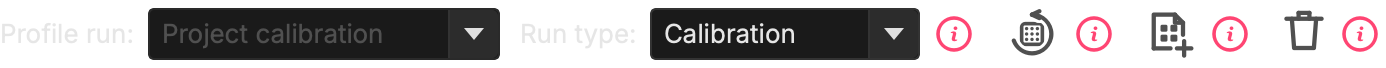
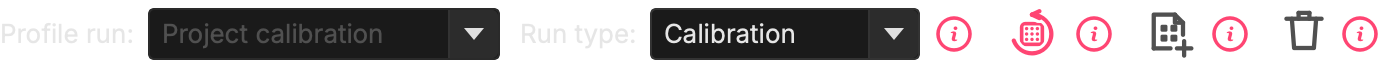
Calibration design: decisions 3, 4, 5, 7 and 8 answered (#137)
Basti, 2026-08-05: 'regarding open questions to this issue: 3,4,5,7,8 -> i
follow your recommendations'. Every question in this design is now answered;
it waits on a green light to build, not on an answer.

Decision 3 has a knock-on the write-up had assumed the other way: Restore
Used Chart is IN the first version, so the calibration chart is snapshotted
like any other -- which is also what fixes D3, the one chart whose loss is
unrecoverable today. Edge case E9 reverses, the drafted button tooltip is
replaced with wording for the case that actually matters (a project that has
not measured its calibration yet), and mockup 02 is re-rendered with Restore
live while Duplicate and Delete stay greyed.

Changed region(s): [[0.7136, 0.1471, 0.7756, 0.8235]]

diff --git a/scripts/mockup_calibration_run_type.py b/scripts/mockup_calibration_run_type.py
@@ -140,11 +140,18 @@ def bar_as_calibration(win) -> None:
                       "moves the old one to “cal/old”.")):
         btn.setEnabled(False)
         btn.setToolTip(why)
-    bar._restore_btn.setEnabled(False)
+    # RESTORE STAYS AVAILABLE. Sebastian, 2026-08-05, answering decision 3:
+    # Restore Used Chart is in the first version, so the calibration chart is
+    # snapshotted like any other — which also fixes D3, the one chart whose
+    # loss is unrecoverable today. Enabled, with the wording for the case that
+    # matters: a project that has not measured its calibration yet.
+    bar._restore_btn.setEnabled(True)
     bar._restore_btn.setToolTip(
-        "A calibration chart keeps no stored copy yet, so there is nothing to "
-        "put back. Switch “Run type” to “Profiling” or “Verification” to use "
-        "this.")
+        "Put back the calibration chart this project's calibration was "
+        "measured with, exactly as it was printed — the pages, the patch "
+        "layout and the .ti2 behind them. Use it when you want to reprint the "
+        "sheet or read it again. Available once a calibration has been "
+        "measured.")
 
 
 def bar_as_profiling(win) -> None:

diff --git a/docs/design/calibration_run_type.md b/docs/design/calibration_run_type.md
@@ -563,7 +563,7 @@ Project `~/ChromIQ/My-Printer/`.
 | E6 | Measuring a calibration chart when `cal/` holds a complete `.ti3` | The §5 "starting over" rules apply unchanged — the same messages, against the calibration measurement. |
 | E7 | A corrupt or empty calibration `.ti3` | Same as a run's: `M-CHART-CORRUPT` (already in the catalogue, pending approval). |
 | E8 | Duplicate / Delete pressed with a Calibration target | Both are about runs. They grey out with a sentence saying which Run type they need — the pattern `duplicate_state` already uses (`ui/measurement_target_bar.py:427-440`). |
-| E9 | Restore Used Chart with a Calibration target | Out of scope for the first version: no chart snapshot is kept for `cal/`. The button greys with a reason. Adding snapshots later is a small, separate step. |
+| E9 | Restore Used Chart with a Calibration target | **In the first version** (decision 3, answered 2026-08-05). The calibration chart is snapshotted at the same moment as any other — when its measurement starts — which also **fixes D3**, the one chart whose loss is unrecoverable today. Before a calibration has been measured there is nothing stored yet, so the button greys with that reason and no other. |
 | E10 | printcal Re-calibrate / Verify with no previous `.cal` | Already handled: `no_prev_cal`, `workflow/printcal_runner.py:44-49`. With E5 in place, the previous `.cal` is in `cal/old/` and can be pointed at. |
 | E11 | The `.cal` is deleted outside ChromIQ while prefilled | The prefill only fills a value; the flag is off unless the user enables it. Enabling with a missing file must say so rather than let printtarg fail. |
 | E12 | Two projects, one calibrated, one not | `_check_for_cal_file` resolves per project root — already correct. |
@@ -629,7 +629,13 @@ new persistence.
 
 ---
 
-## 9. Decisions — answered 2026-08-04, with the reasoning kept
+## 9. Decisions — all answered, with the reasoning kept
+
+1, 2 and 6 were settled on 2026-08-04; **3, 4, 5, 7 and 8 on 2026-08-05**
+(*"regarding open questions to this issue: 3,4,5,7,8 → i follow your
+recommendations"*); 9 on 2026-08-05 as well (§4.2a). **Nothing in this design
+is open any more** — it is waiting on a green light to build, not on an
+answer.
 
 Sebastian answered 1, 2 and 6 outright and asked for a recommendation on the
 rest. Recommendations are marked **R**; they stand unless he says otherwise.
@@ -642,8 +648,8 @@ Two controls for one state is the confusion this feature removes; `cal_target`
 is transient, so nothing needs migrating. Its tooltip — which still promises
 `cal_` filename prefixes that #127 removed — goes with it (§14, item 6).
 
-**3 · Restore Used Chart for a calibration — R: include it, in the first
-version.** The chart snapshot is what makes the button work, and the helper
+**3 · Restore Used Chart for a calibration — include it, in the first
+version.** ✅ *Decided 2026-08-05: "i follow your recommendations".* The chart snapshot is what makes the button work, and the helper
 already exists (`workflow/verify_chart_snapshot.py`); a calibration chart would
 be snapshotted at the same moment as any other — when its measurement starts.
 Two reasons to do it now rather than later: the calibration chart is the one
@@ -651,15 +657,15 @@ chart whose loss is *unrecoverable today* (D3 — it cannot even be reloaded), a
 leaving it out means the button needs an exception to explain, which costs a
 sentence in a tooltip every user reads and buys nothing.
 
-**4 · A project with a `cal/` while the preference is off — R: say it in the
-file guide, and nowhere else.** The interface should not advertise a mode the
+**4 · A project with a `cal/` while the preference is off — say it in the
+file guide, and nowhere else.** ✅ *Decided 2026-08-05.* The interface should not advertise a mode the
 user has switched off; but "where are my files?" must always be answerable, and
 the file guide is exactly where that is asked. With D6 fixed the hidden
 calibration no longer *does* anything, so there is nothing to warn about — only
 something to find.
 
-**5 · Recording which `.cal` a run was built with — R: yes, one `RunMeta`
-field.** It is the only way to answer "was this profile built on the calibration
+**5 · Recording which `.cal` a run was built with — yes, one `RunMeta`
+field.** ✅ *Decided 2026-08-05.* It is the only way to answer "was this profile built on the calibration
 that is in the project now?" once a calibration has been replaced — and with D1
 fixed the older ones live on in `cal/old/<date>/`, so a stored stem stays
 resolvable instead of dangling. Migration is nothing: absent means unknown,
@@ -671,8 +677,9 @@ time, one line in the file guide.
 **6 · D1 ships with the feature, not before it.** ✅ *Decided* — "all together
 when we build it."
 
-**7 · The `.cal` prefill — R: gate it on the preference, fill both fields,
-switch neither on, and say so.** Three parts, one principle: ChromIQ may offer,
+**7 · The `.cal` prefill — gate it on the preference, fill both fields,
+switch neither on, and say so.** ✅ *Decided 2026-08-05. This is the fix for
+D4 and half of D6.* Three parts, one principle: ChromIQ may offer,
 not choose. `-K` reprints every patch value through the calibration and `-I`
 only records it — that is a decision about what lands on paper, and the user is
 the one who knows whether their printer or RIP applies curves itself. Switching
@@ -681,7 +688,7 @@ options are switched off (D6) makes it invisibly. The status line becomes:
 *"Calibration file found: {name} — filled into the -K and -I fields below.
 Switch on the one you want; they cannot both be used at once."*
 
-**8 · Should `-N` follow the device type? — R: surface it, don't decide it.**
+**8 · Should `-N` follow the device type? — surface it, don't decide it.** ✅ *Decided 2026-08-05.*
 Corrected after Sebastian pushed back, and the correction went both ways: my
 "the PostScript path is RGB" was wrong, and "without it the TIFF is useless" is
 not what Argyll does either — every ink is written in both modes, and `-N` only
@@ -784,7 +791,7 @@ Ten places mention calibration. Four need new words, four need a correction they
 
 **5. Restore Used Chart / Duplicate / Delete ⓘ** — each already explains itself per Run type; each gains one line:
 
-> RUN TYPE = CALIBRATION — *(Restore)* a calibration chart keeps no stored copy, so there is nothing to put back. *(Duplicate)* duplicating works on a profile run; switch "Run type" to "Profiling". *(Delete)* a project has one calibration and it is replaced rather than deleted — making a new calibration chart moves the old one to "cal/old".
+> RUN TYPE = CALIBRATION — *(Restore)* puts back the calibration chart this project's calibration was measured with, exactly as it was printed — the pages, the patch layout and the .ti2 behind them. Use it when you want to reprint the sheet or read it again. Available once a calibration has been measured. *(Duplicate)* duplicating works on a profile run; switch "Run type" to "Profiling". *(Delete)* a project has one calibration and it is replaced rather than deleted — making a new calibration chart moves the old one to "cal/old".
 
 ### B · Corrections these already need, feature or no feature
 
